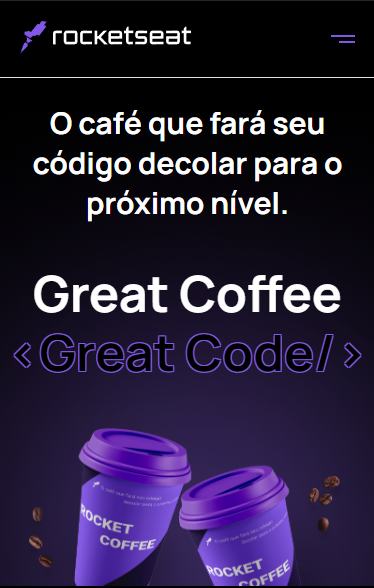
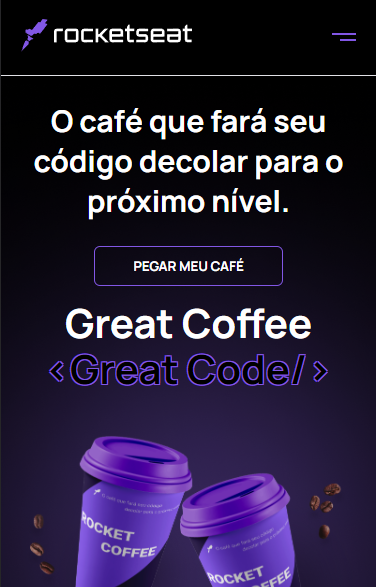
Fix button display

diff --git a/src/components/Main/index.jsx b/src/components/Main/index.jsx
@@ -3,6 +3,7 @@ import RocketCoffeeImg from "../../assets/rocket-coffee.png";
 import {
   CoffeeImg,
   CoffeeInfoButton,
+  CoffeeInfoButtonDiv,
   CoffeeInfoContainer,
   CoffeeInfoText,
   CustomTitle,
@@ -18,7 +19,9 @@ export const Main = () => {
         <CoffeeInfoText>
           O café que fará seu código decolar para o próximo nível.
         </CoffeeInfoText>
-        <CoffeeInfoButton>PEGAR MEU CAFÉ</CoffeeInfoButton>
+        <CoffeeInfoButtonDiv>
+          <CoffeeInfoButton>PEGAR MEU CAFÉ</CoffeeInfoButton>
+        </CoffeeInfoButtonDiv>
       </CoffeeInfoContainer>
       <TitlesContainer>
         <NormalTitle>Great Coffee</NormalTitle>

diff --git a/src/components/Main/styles.js b/src/components/Main/styles.js
@@ -19,7 +19,7 @@ export const NormalTitle = styled.h1`
   line-height: 0.5;
 
   @media screen and (max-width: 700px) {
-    font-size: 5rem;
+    font-size: 4rem;
   }
 `;
 
@@ -56,4 +56,13 @@ export const CoffeeInfoText = styled.h2`
   line-height: 4rem;
 `;
 
-export const CoffeeInfoButton = styled(Button)``;
+export const CoffeeInfoButtonDiv = styled.div`
+  display: flex;
+  justify-content: center;
+`;
+
+export const CoffeeInfoButton = styled(Button)`
+  @media screen and (max-width: 700px) {
+    display: block;
+  }
+`;
